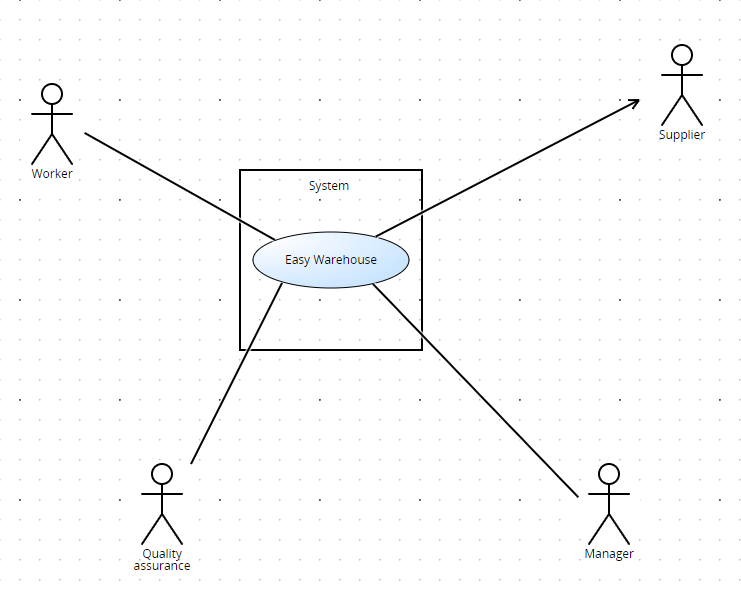
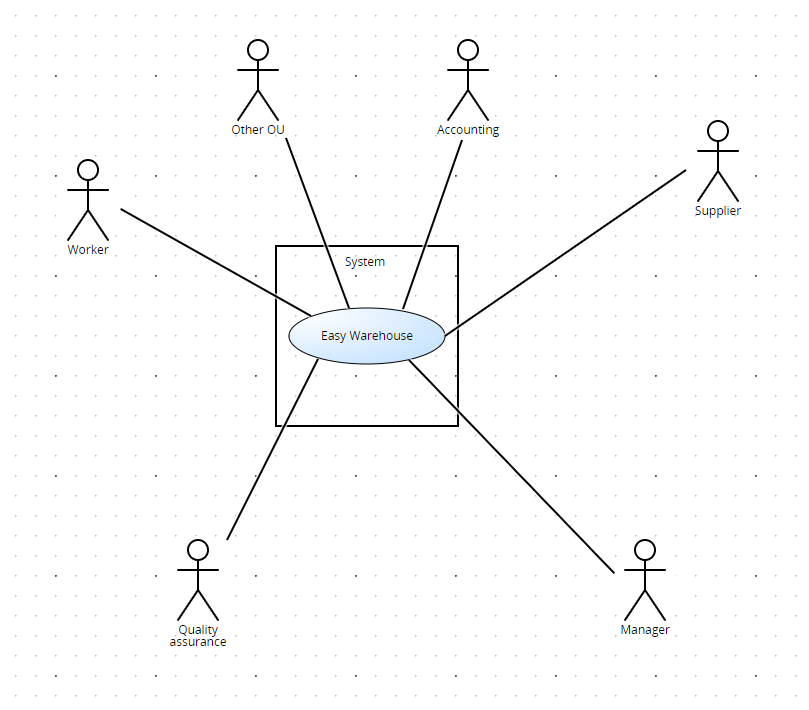
added accounting stakeholder, added uc diagram

diff --git a/RequirementsDocument.md b/RequirementsDocument.md
@@ -70,6 +70,7 @@ EZWH (EaSy WareHouse) is a software application to support the management of a w
 |   Database   |Location to store informations about items, supplier and orders             | 
 |   Internal Network     |Network that allows to link different internal organization with warehouse | 
 |   Warehouse Manager    | Manages the warehouse, places orders |
+|   Accounting   | Manages payments |
 
 
 # Context Diagram and interfaces
@@ -82,10 +83,11 @@ EZWH (EaSy WareHouse) is a software application to support the management of a w
 
 | Actor | Logical Interface | Physical Interface  |
 | ------------- |:-------------:| -----:|
-| Suppliers | GUI | Keyboard+Mouse |
+| Suppliers | E-mail | Keyboard+Mouse |
 | Manager Warehouse | GUI | Keyboard+Mouse/Touchscreen |
 | Warehouse Worker | GUI | Touchscreen/Barcode scanner |
 | Quality Assurance | GUI | Keyboard+Mouse/Touchscreen |
+| Accounting | E-mail | Keyboard+Mouse |
 
 # Stories and personas
 
@@ -160,10 +162,10 @@ Every day, including holidays, Giacomo applies quality control processes for his
 
 
 ## Use case diagram
-\<define here UML Use case diagram UCD summarizing all use cases, and their relationships>
+
+![](./images/usecase.png)
 
 
-\<next describe here each use case in the UCD>
 ### Use case 1, UC1
 | Actors Involved        |  |
 | ------------- |:-------------:| 
